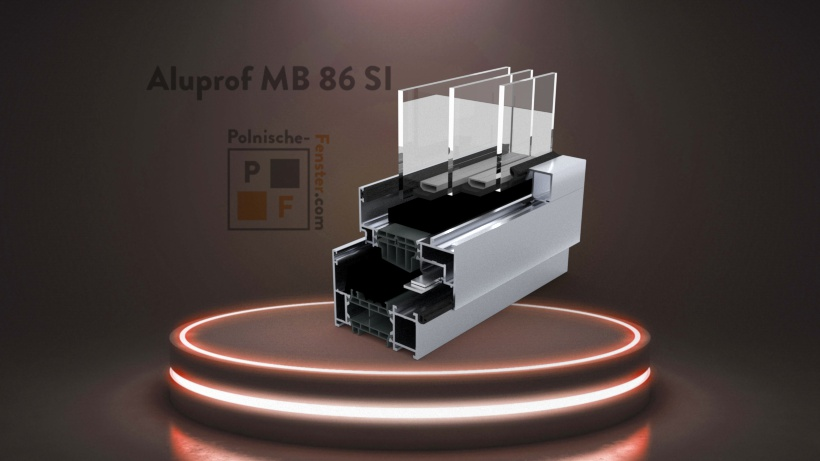
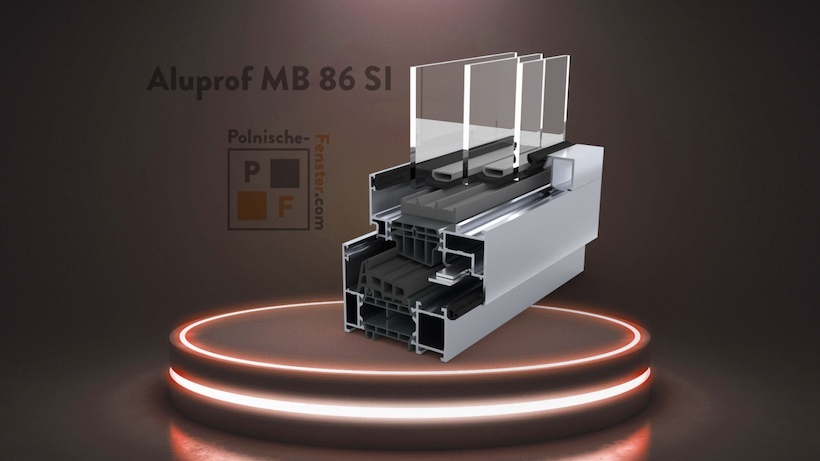
windows

Changed region(s): [[0.3963, 0.0911, 0.7622, 0.7896]]

diff --git a/pages/index.js b/pages/index.js
@@ -180,7 +180,7 @@ function StartPage() {
                 <img
                   id="profilDuzy"
                   className={mainWindow == "pic" ? "db" : "dn"}
-                  src="./pics/ct_70_classic_3d.jpg"
+                  src="./pics/k_88_3d.jpg"
                 ></img>
 
                 <div
